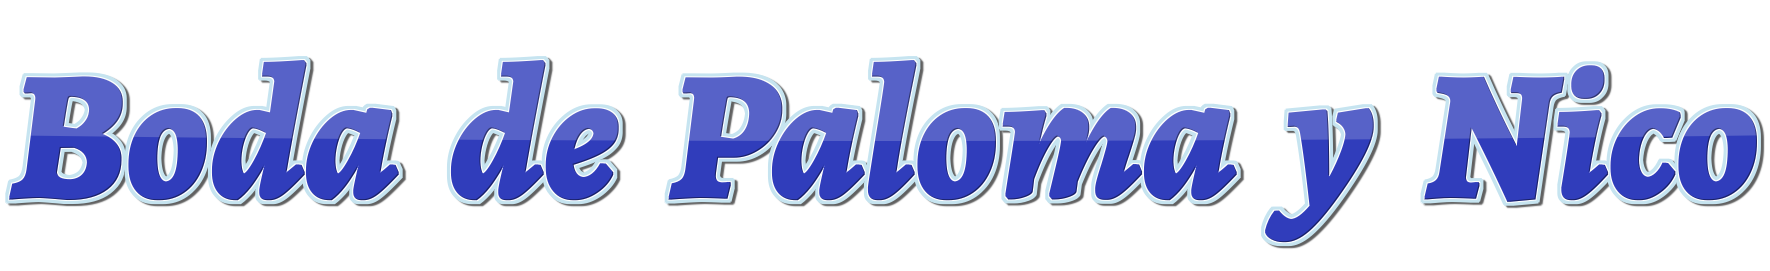
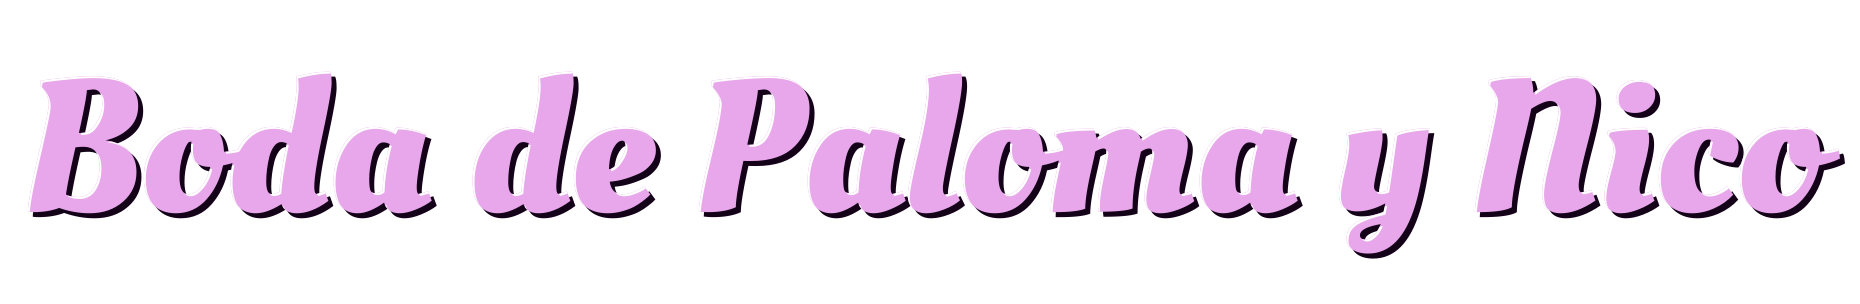
hacer más bonito el header

diff --git a/pages/misa.html b/pages/misa.html
@@ -11,7 +11,8 @@
 </head>
 <body>
     <header>
-        <center><img src="../images/titulo-largo.png" alt="" width="90%"></center>
+        <center><img height="200px" width="500px" class="pequeño" src="../images/titulo-corto.png" alt="" width="90%"></center>
+        <center><img class="grande" src="../images/titulo-largo.png" alt="" width="90%"></center>
     </header>
     <main>
         <p>Solo Misa</p>

diff --git a/main.css b/main.css
@@ -10,7 +10,16 @@
 
 body{
     font-family: 'roboto-regular';
+    margin: 0;
+    /* background-image: url('./images/patterns/background-1814372__480.webp'); */
+}
+
+header{
     background-image: url('./images/patterns/background-1814372__480.webp');
+    height: 300px;
+    display: flex;
+    justify-content: center;
+    align-items: center;
 }
 
 #boton__invitados-opciones{
